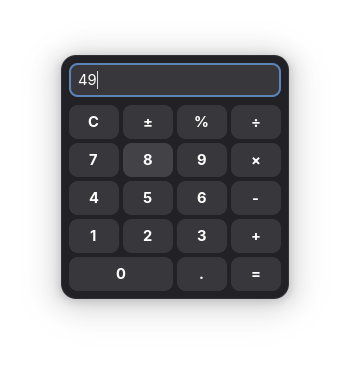
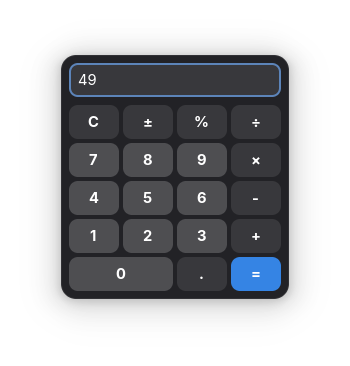
add colors to the buttons

Changed region(s): [[0.6571, 0.6913, 0.8, 0.8115]]

diff --git a/aiculator/src/ui.rs b/aiculator/src/ui.rs
@@ -1,8 +1,9 @@
 use crate::SIZE;
 use gtk4::{
-    Button, Entry, Grid,
+    Button, CssProvider, Entry, Grid, STYLE_PROVIDER_PRIORITY_APPLICATION,
+    gdk::Display,
     glib::MainContext,
-    prelude::{ButtonExt, EditableExt, GridExt, GtkWindowExt},
+    prelude::{ButtonExt, EditableExt, GridExt, GtkWindowExt, WidgetExt},
 };
 use libadwaita::{Application, ApplicationWindow};
 
@@ -14,15 +15,27 @@ fn concat(equation: &str, char: &str) -> String {
     format!("{}{}", equation, char)
 }
 
-fn button(label: &str, entry: &Entry) -> Button {
-    let button = Button::builder()
-        .label(label)
-        .margin_top(SIZE)
-        .margin_bottom(SIZE)
-        .margin_start(SIZE)
-        .margin_end(SIZE)
-        .build();
+fn add_css(label: &str, button: &Button) {
+    let provider = CssProvider::default();
+    provider.load_from_data(
+        ".raised        { background: alpha(@view_fg_color, 0.20); }
+         .raised:hover  { background: alpha(@view_fg_color, 0.25); }
+         .raised:active { background: alpha(@view_fg_color, 0.35); }",
+    );
+    gtk4::style_context_add_provider_for_display(
+        &Display::default().unwrap(),
+        &provider,
+        STYLE_PROVIDER_PRIORITY_APPLICATION,
+    );
 
+    match label {
+        "0" | "1" | "2" | "3" | "4" | "5" | "6" | "7" | "8" | "9" => button.add_css_class("raised"),
+        "=" => button.add_css_class("suggested-action"),
+        _ => {}
+    };
+}
+
+fn add_action(label: &str, button: &Button, entry: &Entry) {
     let entry = entry.clone();
     let label = label.to_string();
 
@@ -42,6 +55,19 @@ fn button(label: &str, entry: &Entry) -> Button {
             entry.set_text(&text);
         });
     });
+}
+
+fn button(label: &str, entry: &Entry) -> Button {
+    let button = Button::builder()
+        .label(label)
+        .margin_top(SIZE)
+        .margin_bottom(SIZE)
+        .margin_start(SIZE)
+        .margin_end(SIZE)
+        .build();
+
+    add_css(label, &button);
+    add_action(label, &button, &entry);
 
     button
 }
